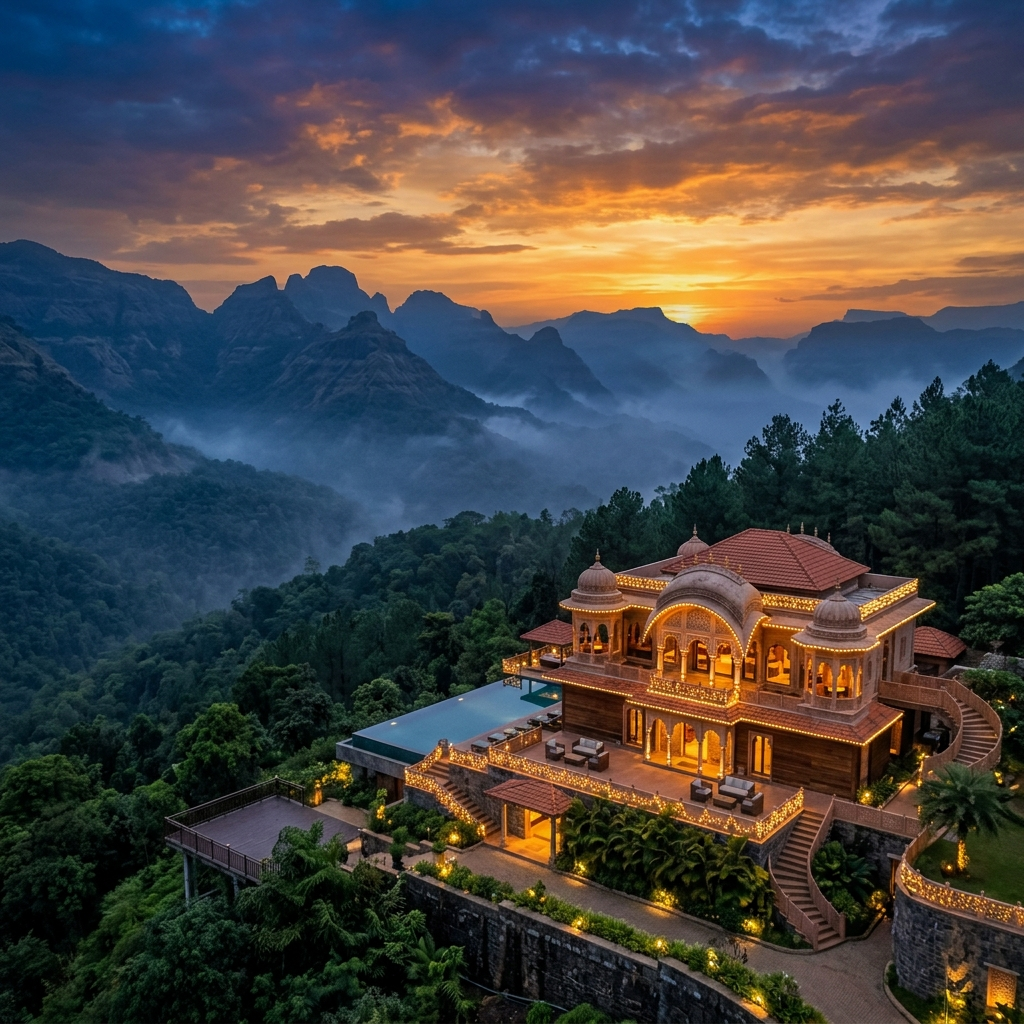
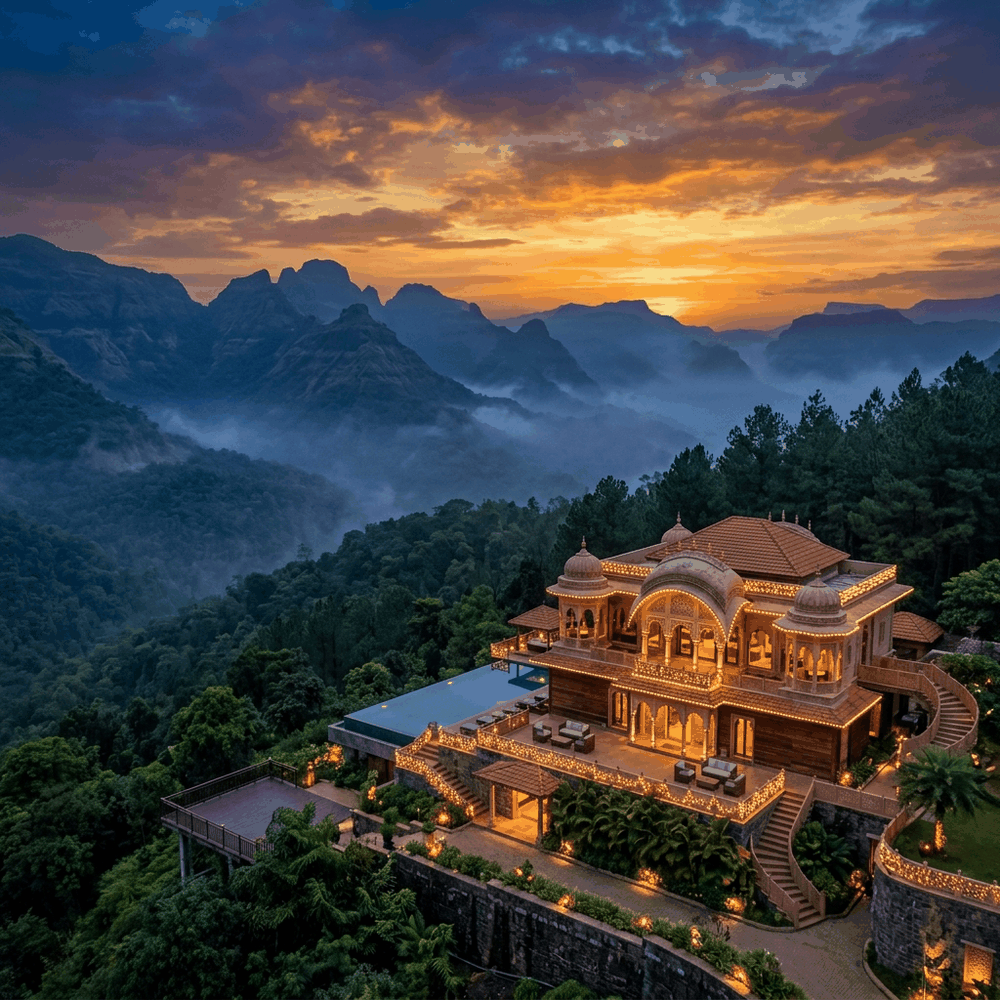
Optimize assets to WebP and enable GPU acceleration for fast mobile loading

diff --git a/src/components/Hero.tsx b/src/components/Hero.tsx
@@ -50,8 +50,9 @@ export const Hero: React.FC<HeroProps> = ({ onEnter }) => {
         <div className="relative p-2.5 rounded-3xl bg-[#F7F3EE]/80 backdrop-blur-md border border-[#B89FC8]/35 shadow-xl overflow-hidden">
           <div className="rounded-2xl overflow-hidden relative">
             <img
-              src="/images/delhi_side.png"
+              src="/images/delhi_side.webp"
               alt="Delhi"
+              decoding="async"
               className="w-full h-auto object-cover rounded-2xl filter saturate-[0.95]"
             />
             <div className="absolute inset-0 bg-gradient-to-t from-[#2E2438]/70 via-transparent to-transparent flex items-end justify-center p-3">
@@ -71,8 +72,9 @@ export const Hero: React.FC<HeroProps> = ({ onEnter }) => {
         <div className="relative p-2.5 rounded-3xl bg-[#F7F3EE]/80 backdrop-blur-md border border-[#E8A987]/35 shadow-xl overflow-hidden">
           <div className="rounded-2xl overflow-hidden relative">
             <img
-              src="/images/maharashtra_side.png"
+              src="/images/maharashtra_side.webp"
               alt="Maharashtra"
+              decoding="async"
               className="w-full h-auto object-cover rounded-2xl filter saturate-[0.95]"
             />
             <div className="absolute inset-0 bg-gradient-to-t from-[#2E2438]/70 via-transparent to-transparent flex items-end justify-center p-3">
@@ -99,8 +101,9 @@ export const Hero: React.FC<HeroProps> = ({ onEnter }) => {
           >
             <div className="absolute inset-0 opacity-20 pointer-events-none mix-blend-overlay">
               <img
-                src="/images/delhi_side.png"
+                src="/images/delhi_side.webp"
                 alt=""
+                decoding="async"
                 className="w-full h-full object-cover filter blur-[1px]"
               />
             </div>
@@ -123,8 +126,9 @@ export const Hero: React.FC<HeroProps> = ({ onEnter }) => {
           >
             <div className="absolute inset-0 opacity-20 pointer-events-none mix-blend-overlay">
               <img
-                src="/images/maharashtra_side.png"
+                src="/images/maharashtra_side.webp"
                 alt=""
+                decoding="async"
                 className="w-full h-full object-cover filter blur-[1px]"
               />
             </div>
@@ -158,8 +162,9 @@ export const Hero: React.FC<HeroProps> = ({ onEnter }) => {
               <div className="absolute -inset-6 sm:-inset-8 bg-gradient-to-r from-[#B89FC8]/50 via-[#FDE047]/40 to-[#E8A987]/50 rounded-full blur-2xl sm:blur-3xl opacity-70 animate-pulse" />
 
               <img
-                src="/images/couple_transparent.png"
+                src="/images/couple_transparent.webp"
                 alt="Anushka & Yash"
+                decoding="async"
                 className="relative z-10 w-36 h-40 sm:w-60 sm:h-64 md:w-72 md:h-76 object-contain filter drop-shadow-[0_12px_24px_rgba(0,0,0,0.35)]"
               />
             </motion.div>
@@ -317,8 +322,9 @@ export const Hero: React.FC<HeroProps> = ({ onEnter }) => {
             className="relative cursor-pointer"
           >
             <img
-              src="/images/couple_transparent.png"
+              src="/images/couple_transparent.webp"
               alt="Anushka & Yash"
+              decoding="async"
               className="w-64 h-72 sm:w-80 sm:h-92 md:w-96 md:h-[420px] object-contain filter drop-shadow-[0_18px_30px_rgba(46,36,56,0.18)] transform group-hover:scale-105 transition-transform duration-700"
             />
           </motion.div>

diff --git a/src/components/OurStory.tsx b/src/components/OurStory.tsx
@@ -28,22 +28,22 @@ export const OurStory: React.FC<OurStoryProps> = ({ onBackToHome }) => {
     {
       id: 1, date: 'October 2022', title: 'The First Meeting', location: 'Delhi',
       narrative: 'What started as a casual introduction through mutual friends turned into hours of conversation about travel, food, and mountains. Two different states, same wavelength.',
-      icon: <Coffee className="w-5 h-5" />, tag: 'The Spark', image: '/images/delhi_side.png', accent: '#B89FC8',
+      icon: <Coffee className="w-5 h-5" />, tag: 'The Spark', image: '/images/delhi_side.webp', accent: '#B89FC8',
     },
     {
       id: 2, date: 'December 2023', title: 'Growing Closer', location: 'Delhi & Maharashtra',
       narrative: 'From the lanes of Old Delhi to the Western Ghats — every trip brought them closer. Yash showed Anushka his world in the mountains, she brought the energy of her city into his life.',
-      icon: <Mountain className="w-5 h-5" />, tag: 'The Adventure', image: '/images/couple_hero.png', accent: '#C9917E',
+      icon: <Mountain className="w-5 h-5" />, tag: 'The Adventure', image: '/images/couple_hero.webp', accent: '#C9917E',
     },
     {
       id: 3, date: 'February 2025', title: 'Sunset Proposal', location: 'Igatpuri, Maharashtra',
       narrative: 'Overlooking the misty valleys of Igatpuri at golden hour, Yash dropped to one knee. The mountain breeze carried Anushka\'s emotional "YES!" — two states became one story.',
-      icon: <Sparkles className="w-5 h-5" />, tag: 'The Proposal', image: '/images/maharashtra_side.png', accent: '#E8A987',
+      icon: <Sparkles className="w-5 h-5" />, tag: 'The Proposal', image: '/images/maharashtra_side.webp', accent: '#E8A987',
     },
     {
       id: 4, date: 'November 2026', title: 'The Engagement & Forever', location: 'Delhi & Maharashtra',
       narrative: 'The Vermas from Delhi and the Biyanis from Maharashtra came together to bless this union and plan the mountain destination wedding in Igatpuri.',
-      icon: <Heart className="w-5 h-5" />, tag: 'The Union', image: '/images/couple_animated.png', accent: '#C9917E',
+      icon: <Heart className="w-5 h-5" />, tag: 'The Union', image: '/images/couple_animated.webp', accent: '#C9917E',
     },
   ];
 

diff --git a/src/components/MistCanvas.tsx b/src/components/MistCanvas.tsx
@@ -3,35 +3,35 @@ import React from 'react';
 export const MistCanvas: React.FC = () => {
   return (
     <div className="pointer-events-none fixed inset-0 z-0 overflow-hidden">
-      {/* Radial gradient blobs — visible but soft, like yumisani's light leaks */}
+      {/* Radial gradient blobs — hardware accelerated for 60fps mobile performance */}
       <div
-        className="absolute rounded-full blur-[120px] animate-breathe"
+        className="absolute rounded-full blur-3xl opacity-30 will-change-transform animate-breathe"
         style={{
           top: '-10%', left: '-5%',
           width: '50vw', height: '50vw',
-          background: 'radial-gradient(circle, rgba(184,159,200,0.15) 0%, transparent 70%)',
+          background: 'radial-gradient(circle, rgba(184,159,200,0.3) 0%, transparent 70%)',
         }}
       />
       <div
-        className="absolute rounded-full blur-[120px] animate-breathe"
+        className="absolute rounded-full blur-3xl opacity-25 will-change-transform animate-breathe"
         style={{
           bottom: '-10%', right: '-5%',
           width: '50vw', height: '50vw',
-          background: 'radial-gradient(circle, rgba(232,169,135,0.12) 0%, transparent 70%)',
+          background: 'radial-gradient(circle, rgba(232,169,135,0.25) 0%, transparent 70%)',
           animationDelay: '2s',
         }}
       />
       <div
-        className="absolute rounded-full blur-[100px]"
+        className="absolute rounded-full blur-2xl opacity-20 will-change-transform"
         style={{
           top: '40%', left: '30%',
           width: '30vw', height: '30vw',
-          background: 'radial-gradient(circle, rgba(201,145,126,0.08) 0%, transparent 70%)',
+          background: 'radial-gradient(circle, rgba(201,145,126,0.2) 0%, transparent 70%)',
         }}
       />
       {/* Subtle warm wash across the whole page */}
       <div
-        className="absolute inset-0"
+        className="absolute inset-0 pointer-events-none"
         style={{
           background: 'radial-gradient(ellipse at 20% 10%, rgba(184,159,200,0.06) 0%, transparent 50%), radial-gradient(ellipse at 80% 90%, rgba(232,169,135,0.06) 0%, transparent 50%)',
         }}

diff --git a/src/components/Events.tsx b/src/components/Events.tsx
@@ -41,7 +41,7 @@ export const Events: React.FC = () => {
         'Men: Kurta Pyjamas, Silk Jackets, Pastel Bandhgalas',
       ],
       swatches: ['#E8A987', '#C9917E', '#B89FC8', '#D6CCBF'],
-      image: '/images/mehendi.png',
+      image: '/images/mehendi.webp',
       musicVibe: 'Folk fusion & acoustic sundowner melodies',
       accentColor: '#E8A987',
     },
@@ -59,7 +59,7 @@ export const Events: React.FC = () => {
         'Men: Tuxedos, Velvet Bandhgalas, Modern Sherwanis',
       ],
       swatches: ['#B89FC8', '#6B5280', '#C9917E', '#2E2438'],
-      image: '/images/sangeet.png',
+      image: '/images/sangeet.webp',
       musicVibe: 'Delhi party anthems & Bollywood dance beats',
       accentColor: '#B89FC8',
     },
@@ -77,7 +77,7 @@ export const Events: React.FC = () => {
         'Men: Ivory/Royal Sherwanis with Turban',
       ],
       swatches: ['#B89FC8', '#E8A987', '#C9917E', '#2E2438'],
-      image: '/images/pheras.png',
+      image: '/images/pheras.webp',
       musicVibe: 'Live shehnai, sitar & ambient recital',
       accentColor: '#C9917E',
     },

diff --git a/src/components/StoryTeaser.tsx b/src/components/StoryTeaser.tsx
@@ -43,8 +43,10 @@ export const StoryTeaser: React.FC<StoryTeaserProps> = ({ onOpenStory }) => {
               <div className="absolute -inset-2 bg-gradient-to-r from-[#B89FC8] via-[#C9917E] to-[#E8A987] rounded-full blur-md opacity-30 group-hover:opacity-60 transition duration-700 animate-pulse" />
               <div className="relative w-36 h-36 sm:w-44 sm:h-44 rounded-full p-1.5 bg-gradient-to-tr from-[#B89FC8] via-[#F7F3EE] to-[#E8A987] shadow-xl overflow-hidden">
                 <img
-                  src="/images/couple_animated.png"
+                  src="/images/couple_animated.webp"
                   alt="Anushka & Yash"
+                  loading="lazy"
+                  decoding="async"
                   className="w-full h-full object-cover rounded-full transform group-hover:scale-110 transition-transform duration-700"
                 />
               </div>
